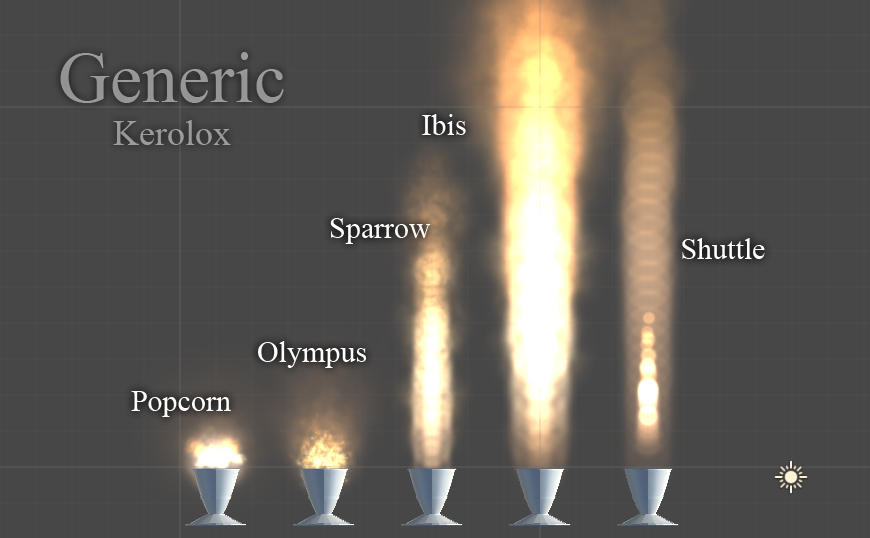
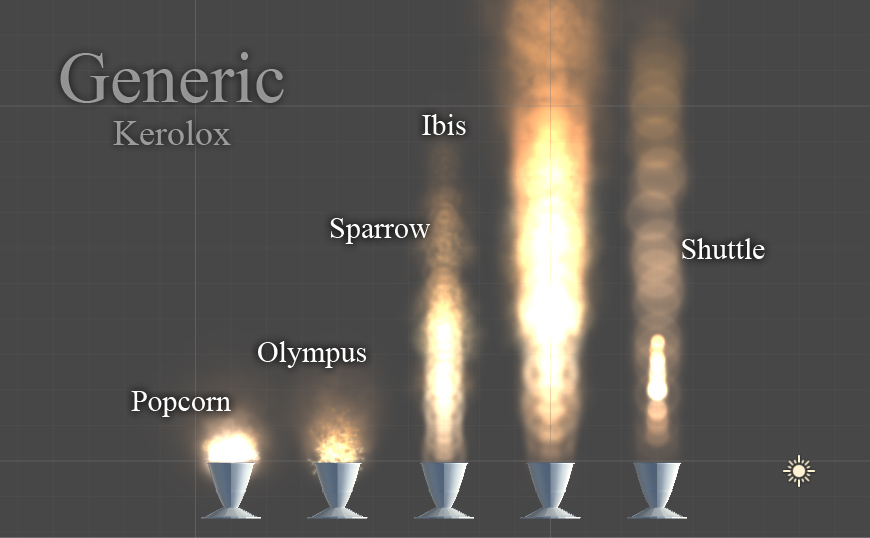
generic methalox plumes

Changed region(s): [[0.4655, 0.0, 0.8069, 1.0], [0.1862, 0.7435, 0.4345, 1.0], [0.9, 0.8327, 0.931, 0.9219]]

diff --git a/Engines/Generic/README.md b/Engines/Generic/README.md
@@ -1,5 +1,8 @@
 ## Generic Plumes
 To hopefully prevent the overuse of certain other plume families on rocket engines (or to keep a sense of specialty and class about them) the generic flames are availed. These five unique flames are fit for many use cases. **Popcorn** and **Olympus** are vacuum flames while the other three are lifters and sustainers.
 
+> Please pardon the plumes looking lumpy and weak. It's a particle limit thing when more than one active plume is selected in Unity.
+
 ![Generic Kerolox](https://raw.githubusercontent.com/JadeOfMaar/PlumeParty/master/Engines/Generic/Generic1.jpg)
 ![Generic Hydrolox](https://raw.githubusercontent.com/JadeOfMaar/PlumeParty/master/Engines/Generic/Generic2.jpg)
+![Generic Methalox](https://raw.githubusercontent.com/JadeOfMaar/PlumeParty/master/Engines/Generic/Generic3.jpg)
